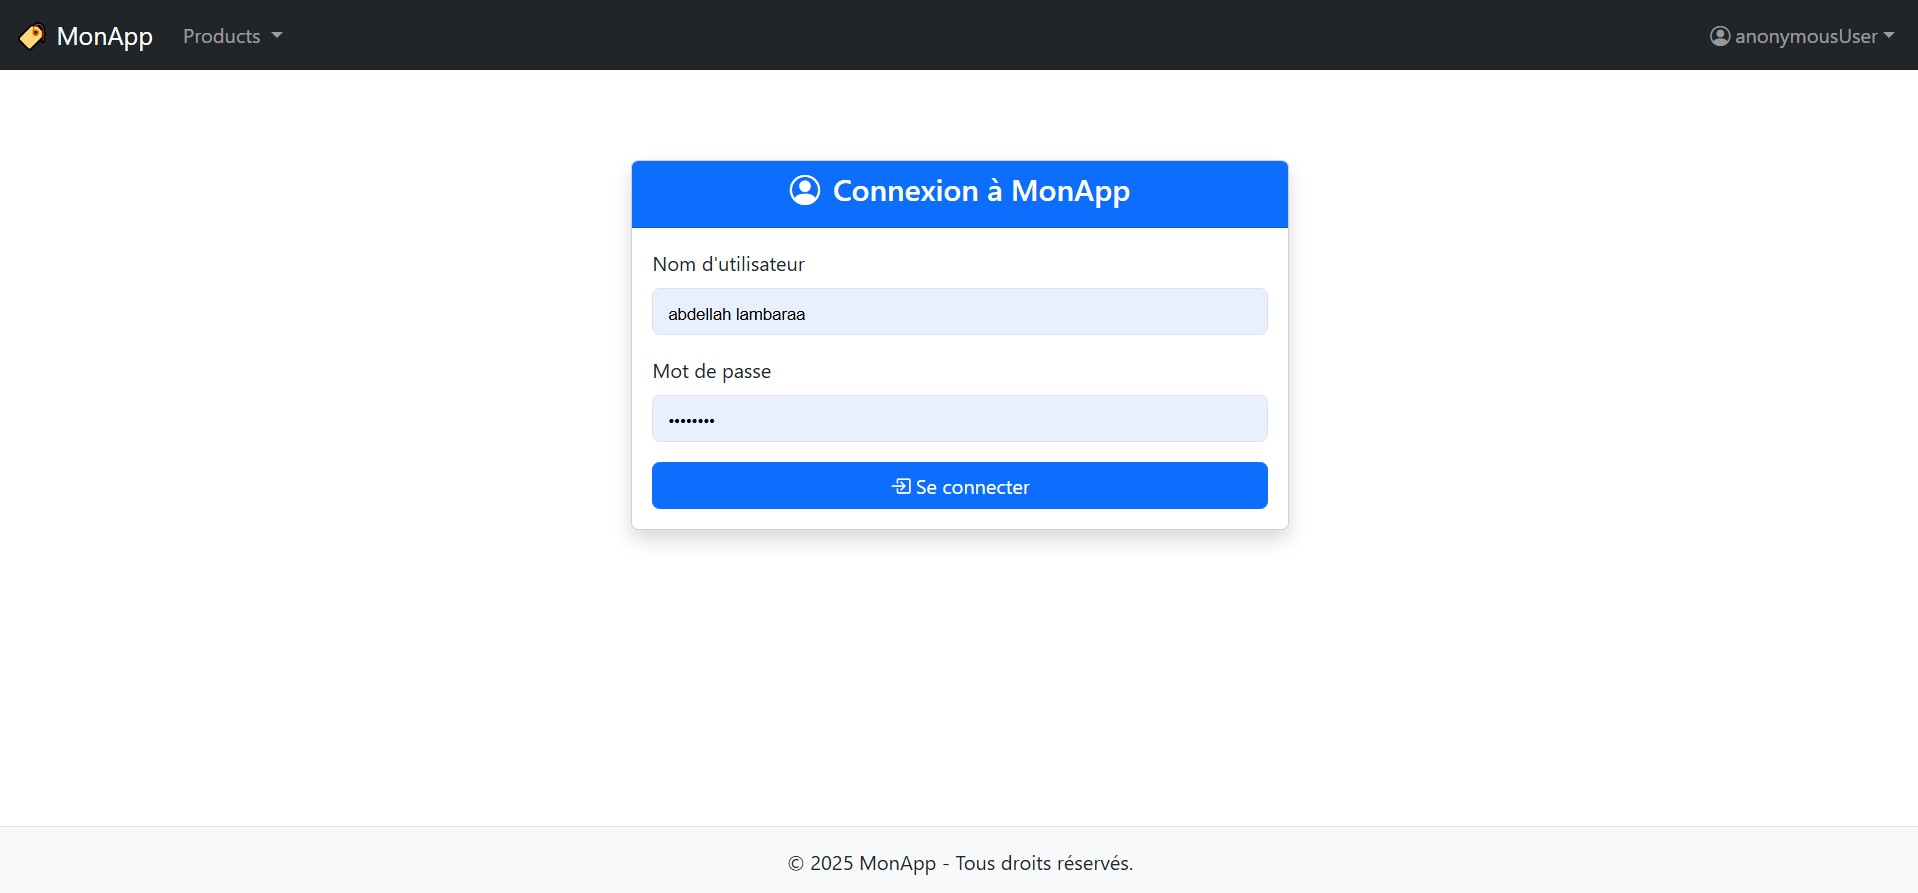
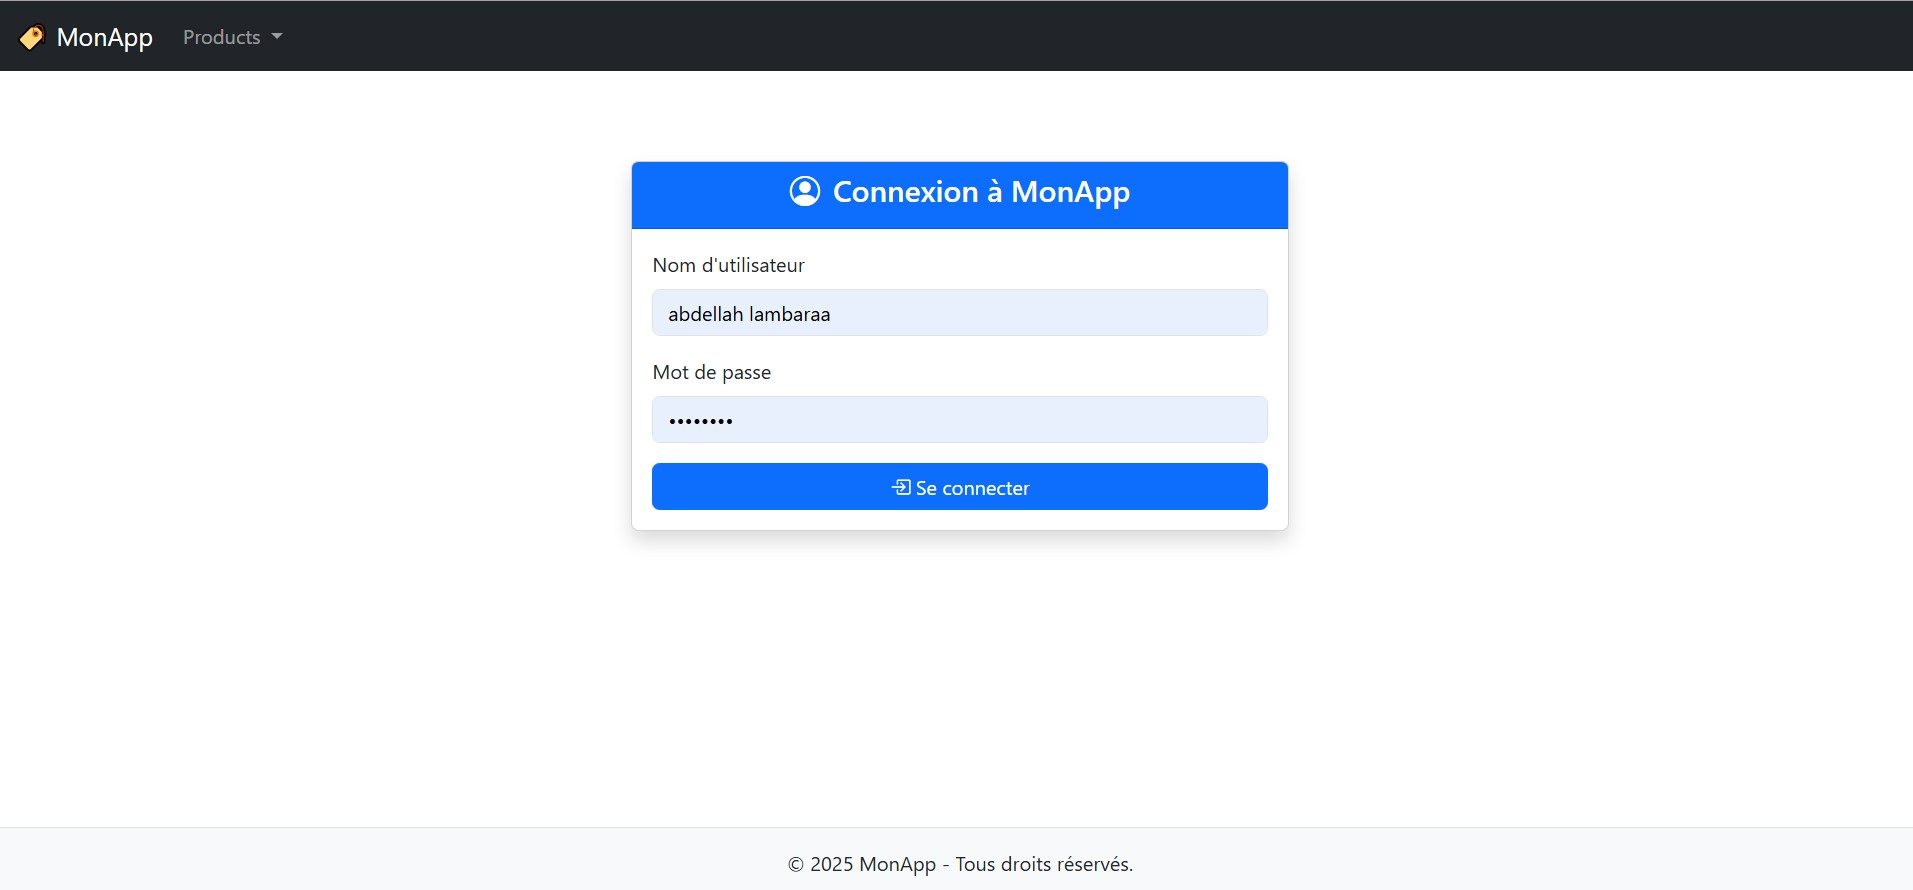
README complet avec rôles, captures et instructions d’utilisation

diff --git a/src/main/resources/templates/fragments/navbar.html b/src/main/resources/templates/fragments/navbar.html
@@ -32,7 +32,7 @@
                         </ul>
                     </li>
                 </ul>
-                <ul class="navbar-nav ms-auto">
+                <ul class="navbar-nav ms-auto" sec:authorize="isAuthenticated()">
                     <li class="nav-item dropdown">
                         <a class="nav-link dropdown-toggle d-flex align-items-center" href="#" id="userDropdown" role="button"
                            data-bs-toggle="dropdown" aria-expanded="false">

diff --git a/README.md b/README.md
@@ -4,26 +4,50 @@ Une application web de gestion de produits développée avec Spring Boot, Spring
 
 ---
 
-## 📸 Aperçu
-
-![Liste des produits](captures/products.jpg)
-
----
-
 ## ✅ Fonctionnalités
 
-- ✅ Affichage de la liste des produits
-- ✅ Ajout, modification, suppression de produits
-- ✅ Formulaire de saisie avec validations
-- ✅ Authentification sécurisée avec Spring Security
-- ✅ Layout responsive avec navbar, footer, fragments Thymeleaf
-- ✅ Déconnexion avec icône
-- ✅ Intégration de Bootstrap Icons
-- ✅ Responsive sur mobile avec menu hamburger
+- 🔒 Authentification avec Spring Security
+- 👥 Gestion de rôles : **ADMIN** et **USER**
+- 📋 Liste des produits
+- ➕ Ajout, ✏ modification, 🗑 suppression (ADMIN uniquement)
+- 👤 Vue profil utilisateur connecté
+- 🔐 Page de login personnalisée
+- ❌ Page d’accès refusé personnalisée (`403`)
+- 🧱 Layout responsive avec navbar, footer, fragments Thymeleaf
+- 📱 Design responsive avec menu mobile
+- 🎨 Bootstrap + Bootstrap Icons
+
+---
+## 📸 Aperçu
+
+### 🔐 Page de connexion personnalisée
+![Login Page](captures/loginPage.jpg)
+
+### ❌ Identifiants invalides
+![Identifiants invalides](captures/invalidesIdentifiants.jpg)
+
+### ✅ Vue ADMIN – Liste complète + gestion
+![Liste produits ADMIN](captures/products.jpg)
+
+### 👤 Vue USER – Liste lecture seule
+![Liste produits USER](captures/ProductLisrRoleUser.jpg)
+
+### ➕ Ajouter un produit (ADMIN)
+![Ajouter produit](captures/newProduct.jpg)
+
+### ✏ Modifier un produit
+![Modifier produit](captures/updateProduct.jpg)
+
+### 👤 Profil de l'utilisateur connecté
+![Profil](captures/profile.jpg)
+
+### 🚫 Accès refusé (403)
+![Non autorisé](captures/notAuthorized.jpg)
 
 ---
 
-## 🛠 Technologies utilisées
+
+## 🛠 Stack technique
 
 | Couche      | Technologies                                  |
 |-------------|-----------------------------------------------|
@@ -31,13 +55,14 @@ Une application web de gestion de produits développée avec Spring Boot, Spring
 | Frontend    | Thymeleaf, Bootstrap 5, Bootstrap Icons       |
 | Sécurité    | Spring Security                               |
 | Base de données | H2 (dev) / MySQL (prod)                  |
-| Autres      | Thymeleaf Layout Dialect                      |
+| Layout      | Thymeleaf Layout Dialect                      |
 
 ---
 
 ## 🚀 Démarrer le projet
 
-1. Cloner le repo :
+### 1. Cloner le projet
+
 ```bash
-git clone https://github.com/LAMBARAA-Abdellah/springboot-thymeleaf-security
-cd spring-product-manager
+git clone https://github.com/LAMBARAA-Abdellah/springboot-thymeleaf-security.git
+cd springboot-thymeleaf-security
